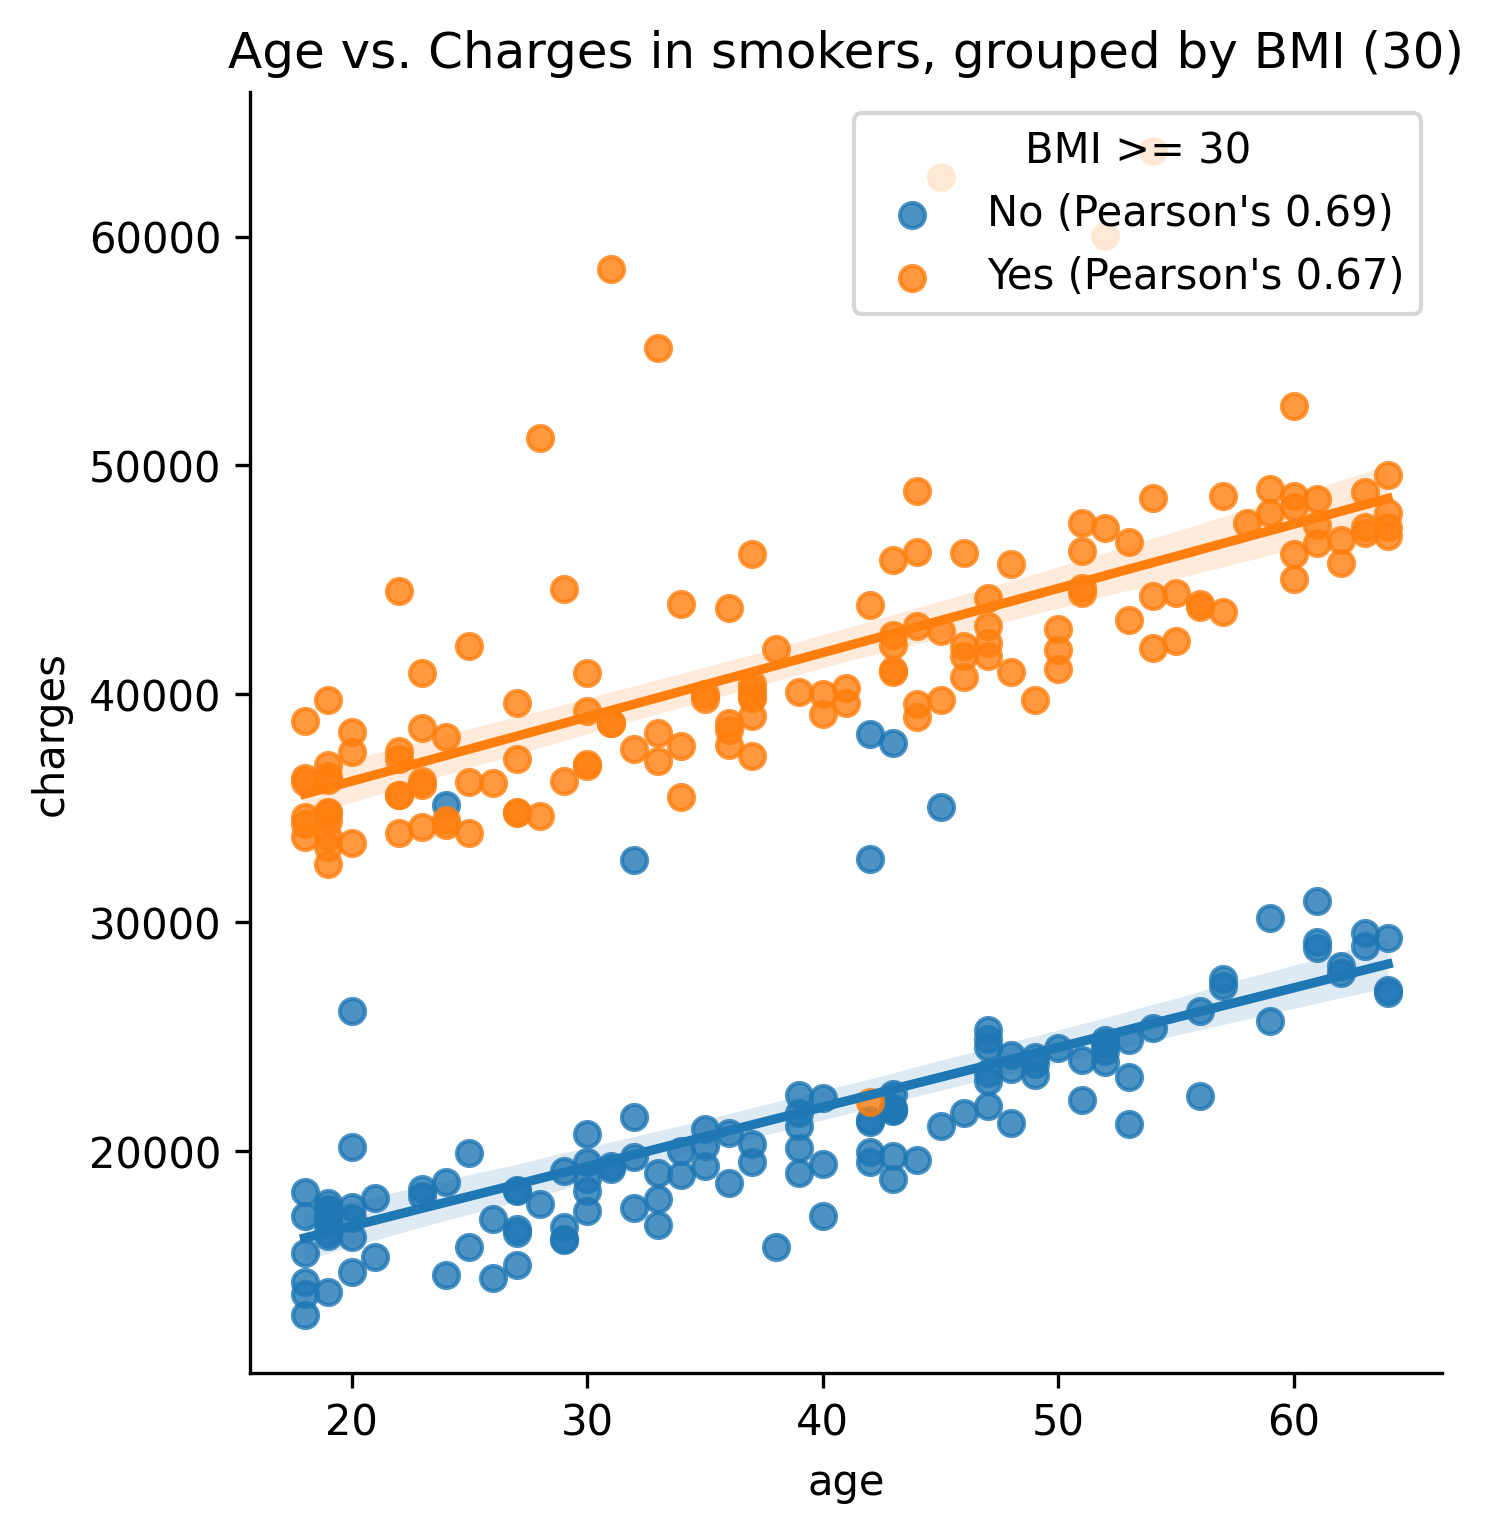
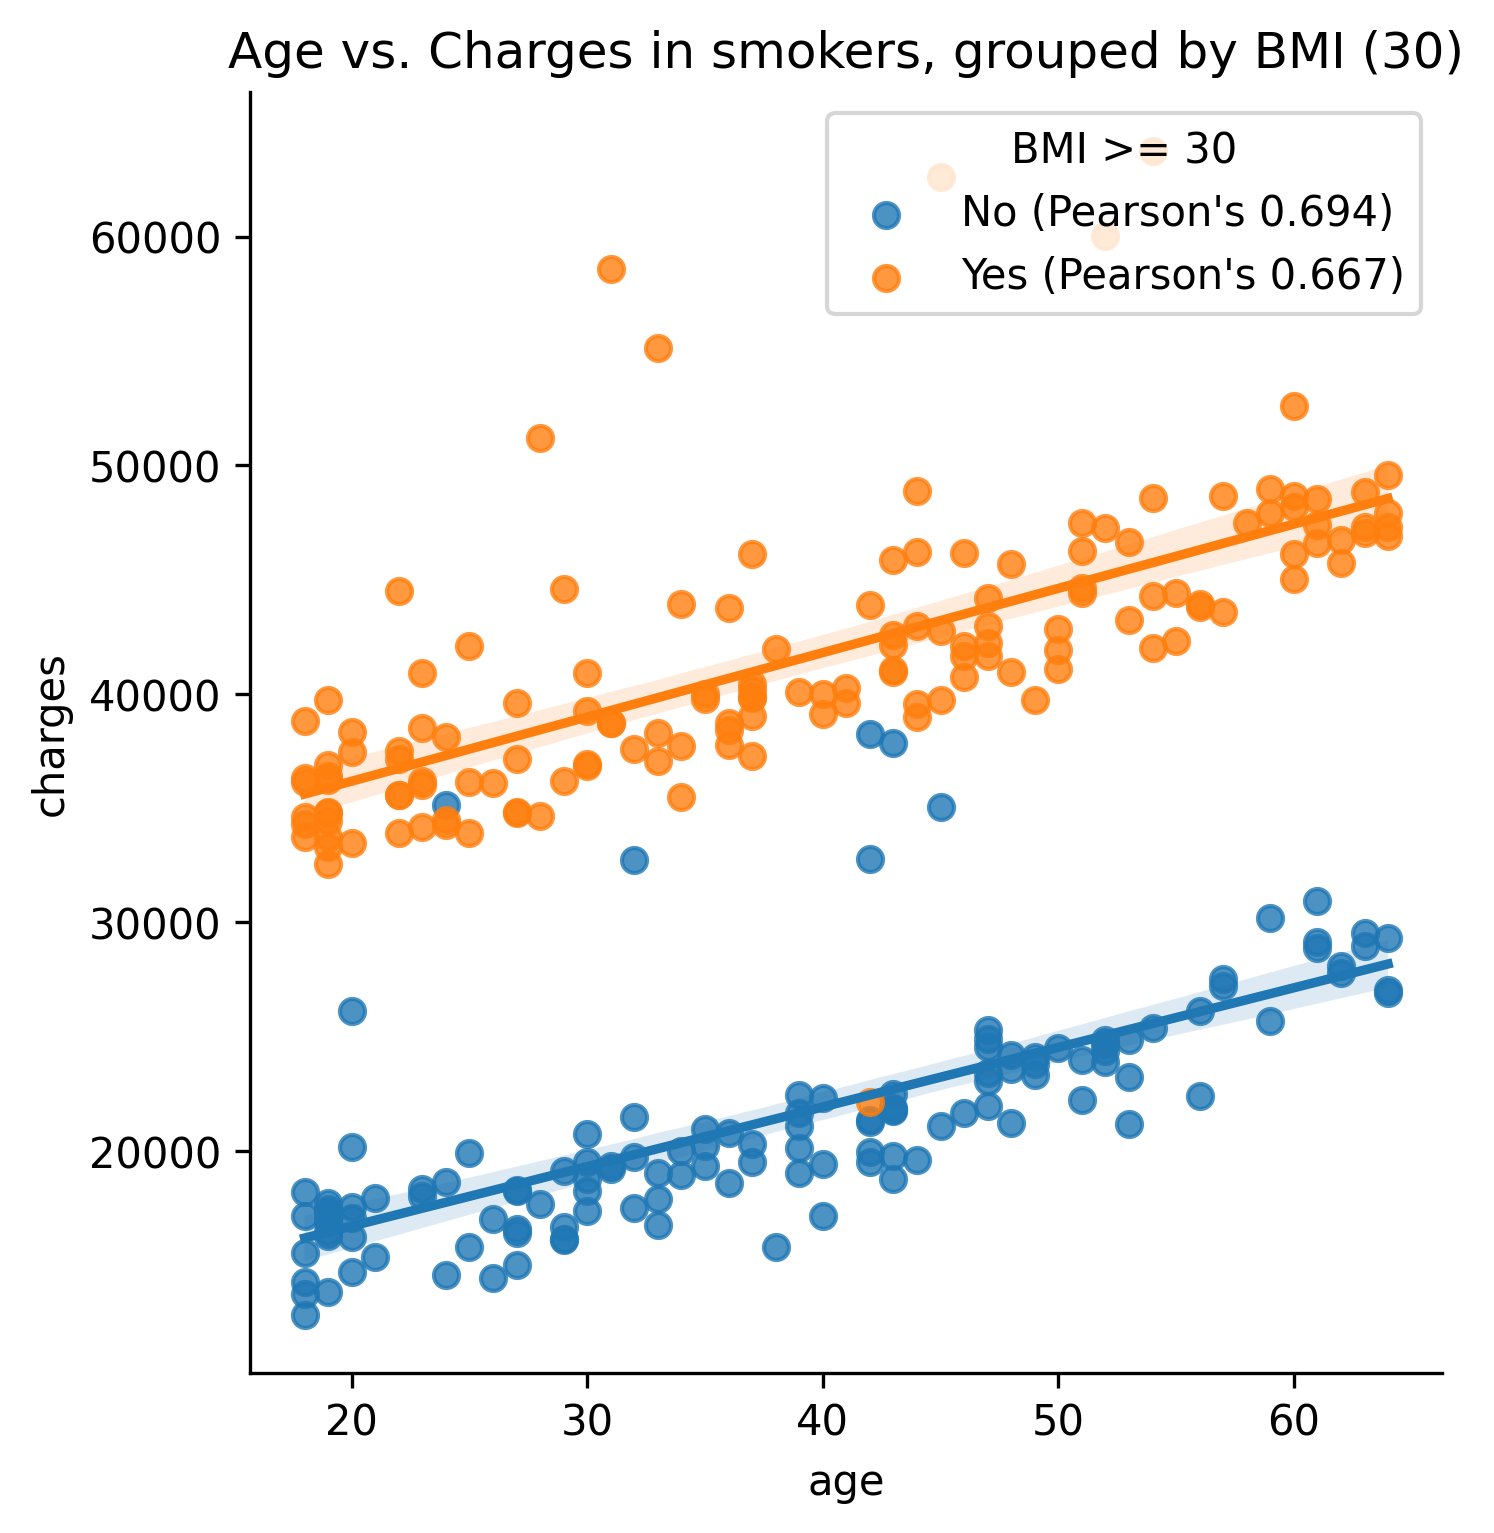
new plots

Changed region(s): [[0.6466, 0.0613, 0.9237, 0.184], [0.5542, 0.0613, 0.6158, 0.2146]]

diff --git a/cost_eda.py b/cost_eda.py
@@ -108,6 +108,7 @@ cat_ord_cols.append('bmi_>=_30')
 # Standardize image saving parameters
 def save_image(filename, dir=eda_output_dir, dpi=300, bbox_inches='tight'):
     plt.savefig(dir/filename, dpi=dpi, bbox_inches=bbox_inches)
+    print("Saved image to '" + str(dir/filename) +"'")
 
 # Create dictionary of formatted column names  to be used for
 # figure labels (title() capitalizes every word in a string)
@@ -502,8 +503,8 @@ for legend_label in labels:
     else:
         legend_label.set_text("Yes (Pearson's %0.2f)" %pearson_smokers_age_charge)
 plt.title("Age vs. Charges, grouped by smoking status")
-save_filename = 'age_vs_charges_grp_smoking_status'
-save_image(save_filename)
+#save_filename = 'age_vs_charges_grp_smoking_status'
+#save_image(save_filename)
 plt.show()
 
 
@@ -536,10 +537,10 @@ plt.show()
 obese_df = smokers_data[smokers_data['bmi_>=_30']=='yes'].copy()
 nonobese_df = smokers_data[smokers_data['bmi_>=_30']=='no'].copy()
 
-pearson_obese = obese_df.corr(method='pearson').round(2)
+pearson_obese = obese_df.corr(method='pearson').round(3)
 pearson_age_charge_ob = pearson_obese['age'].loc['charges']
 
-pearson_nonobese = nonobese_df.corr(method='pearson').round(2)
+pearson_nonobese = nonobese_df.corr(method='pearson').round(3)
 pearson_age_charge_nonob = pearson_nonobese['age'].loc['charges']
 
 # Pearsons for age and charges in smokers: 0.67 for obese and 0.69 for nonobese
@@ -552,12 +553,12 @@ leg = ax.get_legend()
 labels = leg.get_texts()
 for legend_label in labels:
     if legend_label.get_text() == 'no':
-        legend_label.set_text("No (Pearson's %0.2f)" %pearson_age_charge_nonob)
+        legend_label.set_text("No (Pearson's %0.3f)" %pearson_age_charge_nonob)
     else:
-        legend_label.set_text("Yes (Pearson's %0.2f)" %pearson_age_charge_ob)
+        legend_label.set_text("Yes (Pearson's %0.3f)" %pearson_age_charge_ob)
 plt.title("Age vs. Charges in smokers, grouped by BMI (30)")
 #save_filename = 'age_vs_charges_smokers_grp_bmi30'
-#save_image(output_dir, save_filename, bbox_inches='tight')
+#save_image(save_filename)
 plt.show()
 
 # ===============
@@ -639,8 +640,10 @@ plt.text(0.95, 0.92, textbox_text, bbox=box_style, transform=ax.transAxes,
          verticalalignment='top', horizontalalignment='right')
 plt.title("Age vs. Charges in nonsmokers")
 #save_filename = 'age_vs_charges_nonsmokers'
-#save_image(output_dir, save_filename, bbox_inches='tight')
+#save_image(save_filename)
 plt.show()
+
+# Nonsmokers do not group well by BMI, sex, region, or # children (I left that code out)
 
 # =============================
 # Test squaring the age as the shape looks almost parabolic
@@ -664,7 +667,7 @@ new_pearson_nonobese_smoker_age_charge = new_pearson_nonobese_smoker['age'].loc[
 new_pearson_nonsmokers = new_age_nonsmokers_data.corr(method='pearson').round(3)
 new_pearson_nonsmokers_age_charge = new_pearson_nonsmokers['age'].loc['charges']
 
-# Plot two lmplots again
+# Plot nonsmoker lmplot again
 sns.lmplot(x='age^2', y='charges', data=new_age_nonsmokers_data, line_kws={'color':'cyan'})
 ax = plt.gca()
 textbox_text = "Pearson's r = %0.3f" %new_pearson_nonsmokers_age_charge
@@ -675,8 +678,22 @@ plt.title("Age^2 vs. Charges in nonsmokers")
 #save_image(output_dir, save_filename, bbox_inches='tight')
 plt.show()
 
+# Plot smoker lmplot again
+g = sns.lmplot(x='age^2', y='charges', hue="bmi_>=_30", data=new_age_smokers_data, legend=False)
+ax = g.axes[0,0]
+ax.legend(title='BMI >= 30', loc='upper right')
+leg = ax.get_legend()
+labels = leg.get_texts()
+for legend_label in labels:
+    if legend_label.get_text() == 'no':
+        legend_label.set_text("No (Pearson's %0.2f)" %new_pearson_nonobese_smoker_age_charge)
+    else:
+        legend_label.set_text("Yes (Pearson's %0.2f)" %new_pearson_obese_smoker_age_charge)
+plt.title("Age vs. Charges in smokers, grouped by BMI (30)")
+#save_filename = 'age_vs_charges_smokers_grp_bmi30'
+#save_image(save_filename)
+plt.show()
 
-# Nonsmokers do not group well by BMI, sex, region, or # children (I left that code out)
 
 
 # =============================================

diff --git a/cost_modeling.py b/cost_modeling.py
@@ -35,7 +35,7 @@ from sklearn.model_selection import cross_val_score, cross_validate
 project_dir = PureWindowsPath(r"D:\GitHubProjects\medical_cost_prediction\\")
 chdir(project_dir)
 dataset = pd.read_csv('./input/insurance.csv')
-output_dir = Path(project_dir, Path('./output/models'))
+models_output_dir = Path(project_dir, Path('./output/models'))
 
 # ====================================================================================================================
 # Categorize and process features
@@ -105,8 +105,8 @@ def initialize_fig_gs_ax(num_rows, num_cols, figsize=(16, 8)):
     return fig, gs, ax_array_flat
 
 # Standardize image saving parameters
-def save_image(dir, filename, dpi=300, bbox_inches='tight'):
-    plt.savefig(dir/filename, dpi=dpi, bbox_inches=bbox_inches)
+def save_image(filename, dir=models_output_dir, dpi=300, bbox_inches='tight'):
+    plt.savefig(models_output_dir/filename, dpi=dpi, bbox_inches=bbox_inches)
     print("Saved image to '" + str(dir/filename) +"'")
     
 # ====================================================================================================================
